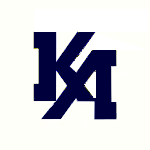
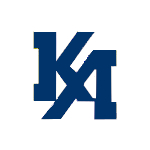
color foto hover links

Changed region(s): [[0.2133, 0.2133, 0.7733, 0.8]]

diff --git a/css/style.css b/css/style.css
@@ -146,6 +146,14 @@ h1{
 		padding-top: 1rem;
 		margin: auto;
 	}
+	.profile-posts nav a:hover{
+		color: black;
+		border-top: 2px solid black;
+		position:relative;
+		top:-2px;
+		margin-bottom:-2px;
+
+	}
 	.perfil{
 		height: 100%;
 		width:100%;
